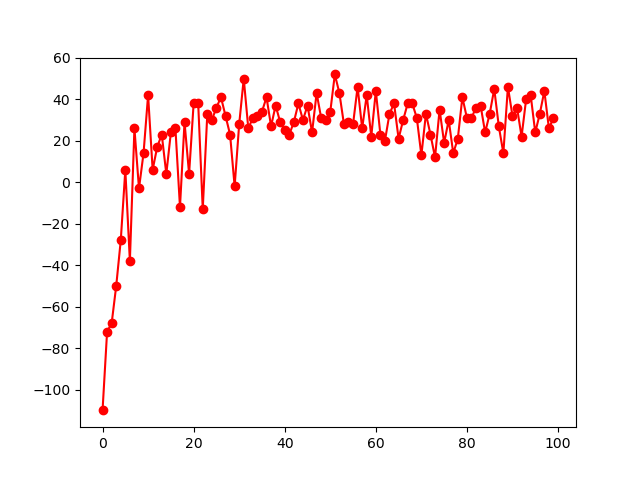
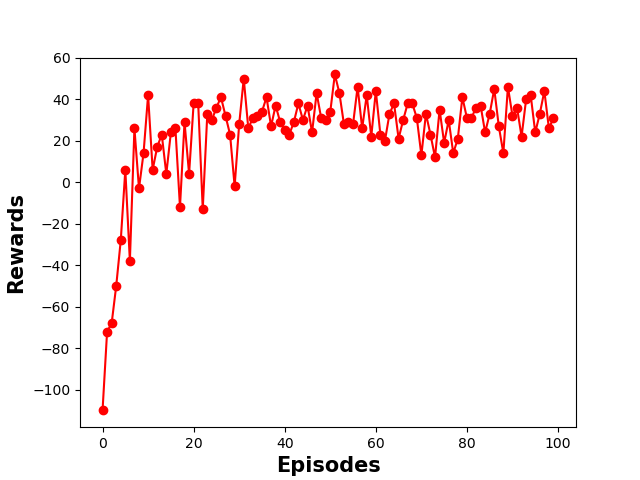
add labels

Changed region(s): [[0.4375, 0.9375, 0.5938, 1.0], [0.0, 0.4062, 0.0625, 0.625]]

diff --git a/analysis.py b/analysis.py
@@ -114,8 +114,10 @@ class Analysis:
         scatter_x = list(range(0, len(d)))
 
         plt.plot(scatter_x, d, '-ok', color='red')
-        plt.savefig((f"{self.analysis_dir}/scatter_{name}.png"))
 
+        plt.xlabel("Episodes", fontweight="bold", fontsize=15)
+        plt.ylabel("Rewards", fontweight="bold", fontsize=15)
+        plt.savefig((f"{self.analysis_dir}/scatter_{name}.png"))
     def get_all_analysis(self):
         # first we build the Gifs
 
@@ -220,3 +222,4 @@ class Analysis:
         )
         plt.legend()
         plt.savefig(f"{self.analysis_dir}/bar_chart.png")
+
